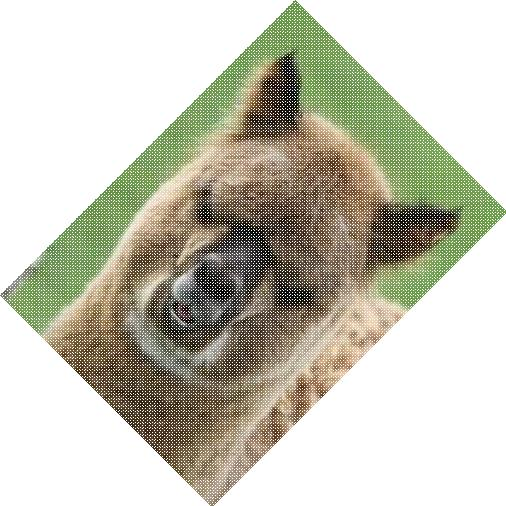
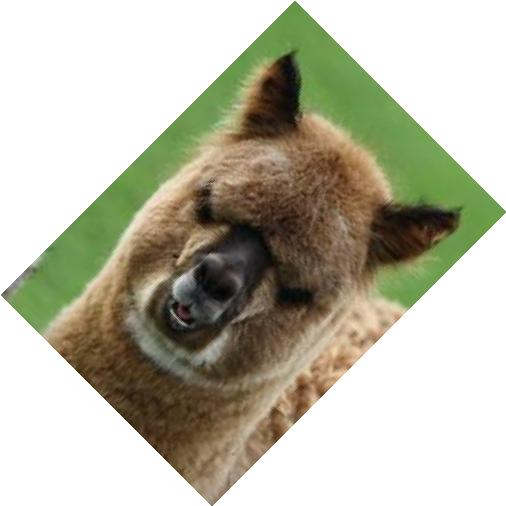
Use inverse mapping for rotation

Changed region(s): [[0.0, 0.0, 1.0, 1.0]]

diff --git a/ps1/rotate.m b/ps1/rotate.m
@@ -1,17 +1,24 @@
 #! /usr/bin/octave -qf
 
-arg_list = argv();
-image_file_name = arg_list{1};
-degrees = str2num(arg_list{2});
-rad = degrees * pi / 180;
-M = [cos(rad) -sin(rad); sin(rad) cos(rad)];
-I = imread(image_file_name);
-[m, n, d] = size(I);
-center = round([n/2, m/2]);
+function M = rotation_matrix(rad)
+    M = [cos(rad) -sin(rad); sin(rad) cos(rad)];
+end
 
 function r = rotate(M, center, point)
     r = M * (point - center)' + center';
 end
+
+arg_list = argv();
+image_file_name = arg_list{1};
+degrees = str2num(arg_list{2});
+rad = degrees * pi / 180;
+
+M = rotation_matrix(rad);
+Minverse = rotation_matrix(-rad);
+
+I = imread(image_file_name);
+[m, n, d] = size(I);
+center = round([n/2, m/2]);
 
 % compute the new size of the rotated image
 %   compute new location of the 4 corners
@@ -34,27 +41,18 @@ height = ymax - ymin;
 
 J = ones(height, width, 3)*255;
 
-% iterate over every pixel by position
-for y = 1:m
-    for x = 1:n
-        colors = I(y,x,:);
-        % compute new position and copy the colors of this pixel to the new position (make sure to apply offset)
-        p = rotate(M, center, [x-1 y-1]) - [xmin; ymin] + [1; 1];
-        if p(1) <= 0
-            p(1) = 1;
+% iterate over every pixel of J by position
+for y = 1:height
+    for x = 1:width
+        % compute new position and copy the colors of this pixel to the new position 
+        % (make sure to apply offset)
+        p = rotate(Minverse, center, [x-1 y-1] + [xmin ymin]) + [1; 1];
+        if p(1) < 1 || p(2) < 1 || p(1) > n || p(2) > m
+            continue;
         end
-        if p(2) <= 0
-            p(2) = 1;
-        end
-        if p(1) > width
-            p(1) = width;
-        end
-        if p(2) > height
-            p(2) = height;
-        end
-
         p = round(p);
-        J(p(2), p(1), :) = colors;
+
+        J(y, x, :) = I(p(2), p(1), :); 
     end
 end
 

diff --git a/ps1/README.md b/ps1/README.md
@@ -8,22 +8,13 @@ gnome-open holy-animal.jpg
 
 ```sh
 octave reduceIntensity.m holy-animal.jpg 16
-```
-![](holy-animal_16.jpg)
-
-```sh
 octave reduceIntensity.m holy-animal.jpg 8
-```
-![](holy-animal_8.jpg)
-
-```sh
 octave reduceIntensity.m holy-animal.jpg 4
-```
-![](holy-animal_4.jpg)
-
-```sh
 octave reduceIntensity.m holy-animal.jpg 2
 ```
+![](holy-animal_16.jpg)
+![](holy-animal_8.jpg)
+![](holy-animal_4.jpg)
 ![](holy-animal_2.jpg)
 
 ### blur
@@ -52,10 +43,6 @@ octave rotate.m holy-animal.jpg 90
 octave rotate.m holy-animal.jpg 45
 ```
 ![](holy-animal_rotated_45.jpg)
-```sh
-octave blur.m holy-animal_rotated_45.jpg 3
-```
-![](holy-animal_rotated_45_blurred_3.jpg)
 
 ### pixelize
 ```sh
